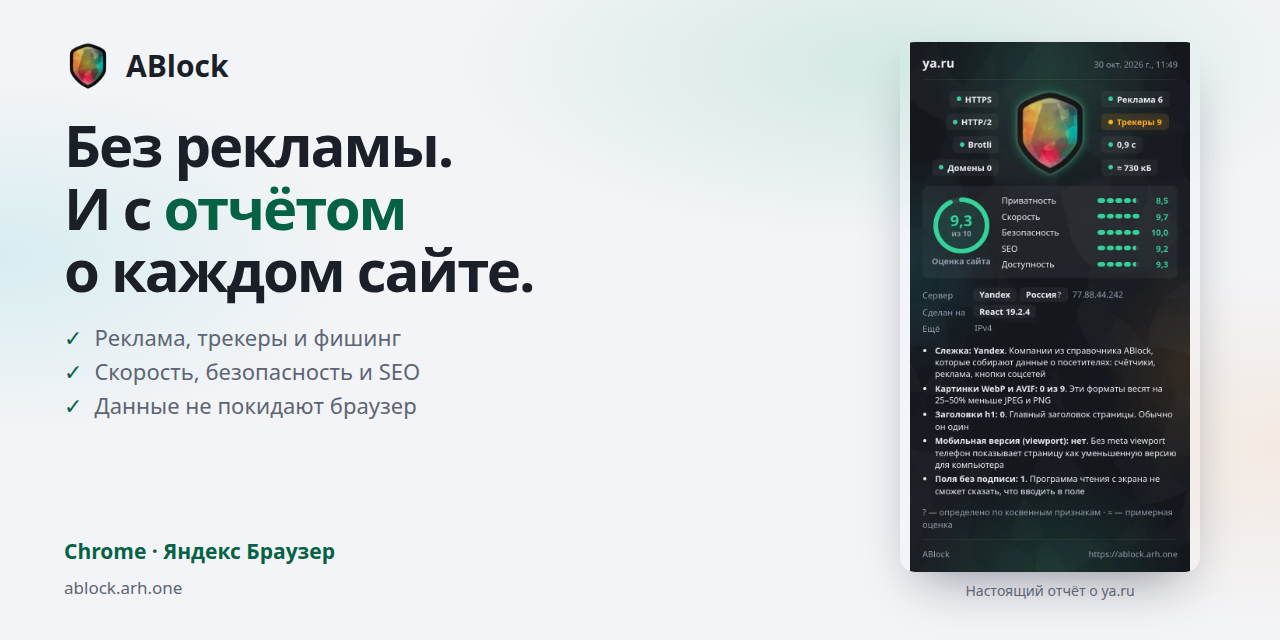
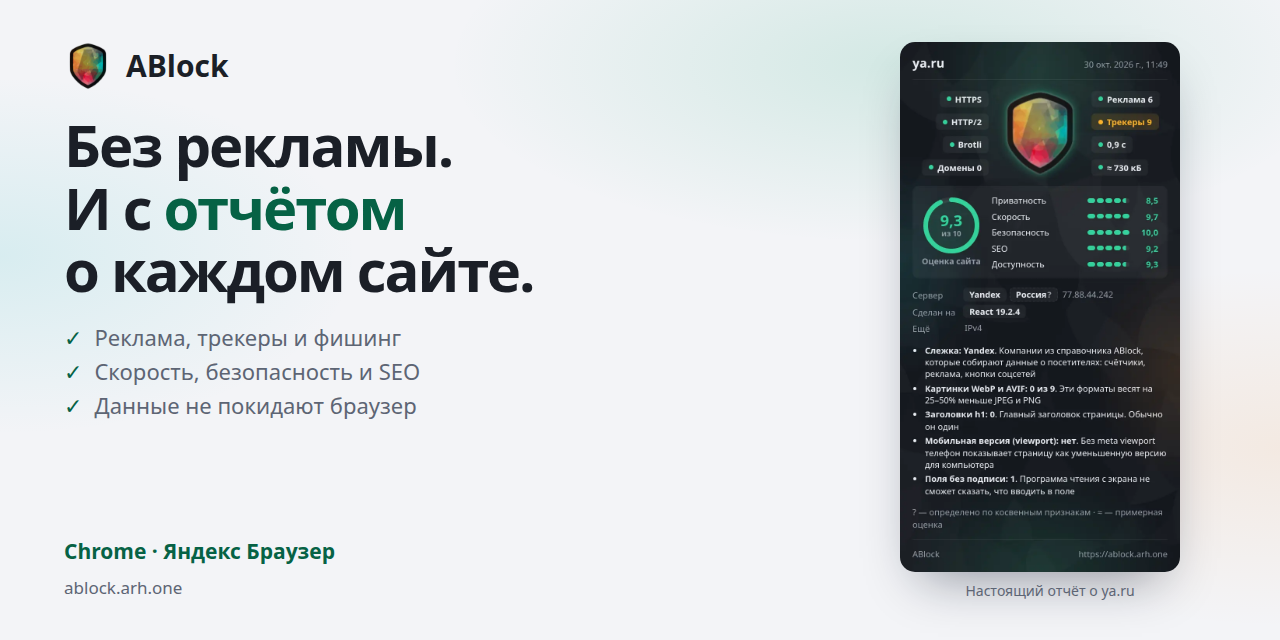
Баннеры и og-превью: скругление по реальной пропорции скрина отчёта

Changed region(s): [[0.6875, 0.0625, 0.9375, 0.9062]]

diff --git a/docs/store/banner/banner.css b/docs/store/banner/banner.css
@@ -20,5 +20,5 @@ h1 { font-size: 58px; line-height: 1.08; margin: 24px 0 18px; letter-spacing: -0
 .browsers { margin: auto 0 0; font-size: 21px; font-weight: 600; color: var(--on-text); }
 .address { font-size: 17px; color: var(--muted); margin: 8px 0 0; }
 .sample { margin: 0; width: 300px; }
-.sample img { display: block; width: 300px; height: 530px; object-fit: contain; border-radius: 15px; box-shadow: 0 24px 50px -20px rgba(10, 20, 40, 0.45); }
+.sample img { display: block; width: auto; height: 530px; border-radius: 15px; box-shadow: 0 24px 50px -20px rgba(10, 20, 40, 0.45); }
 .sample figcaption { text-align: center; color: var(--muted); font-size: 14px; margin-top: 8px; }

diff --git a/docs/store/banner/og.css b/docs/store/banner/og.css
@@ -6,4 +6,4 @@ h1 { font-size: 50px; margin: 24px 0 22px; }
 .og-lead { font-size: 23px; line-height: 1.45; color: var(--muted); margin: 0 0 18px; max-width: 660px; }
 .og-note { font-size: 20px; color: var(--on-text); margin: 0 0 20px; }
 .sample { width: 280px; }
-.sample img { width: 280px; height: 520px; }
+.sample img { width: auto; height: 520px; }
